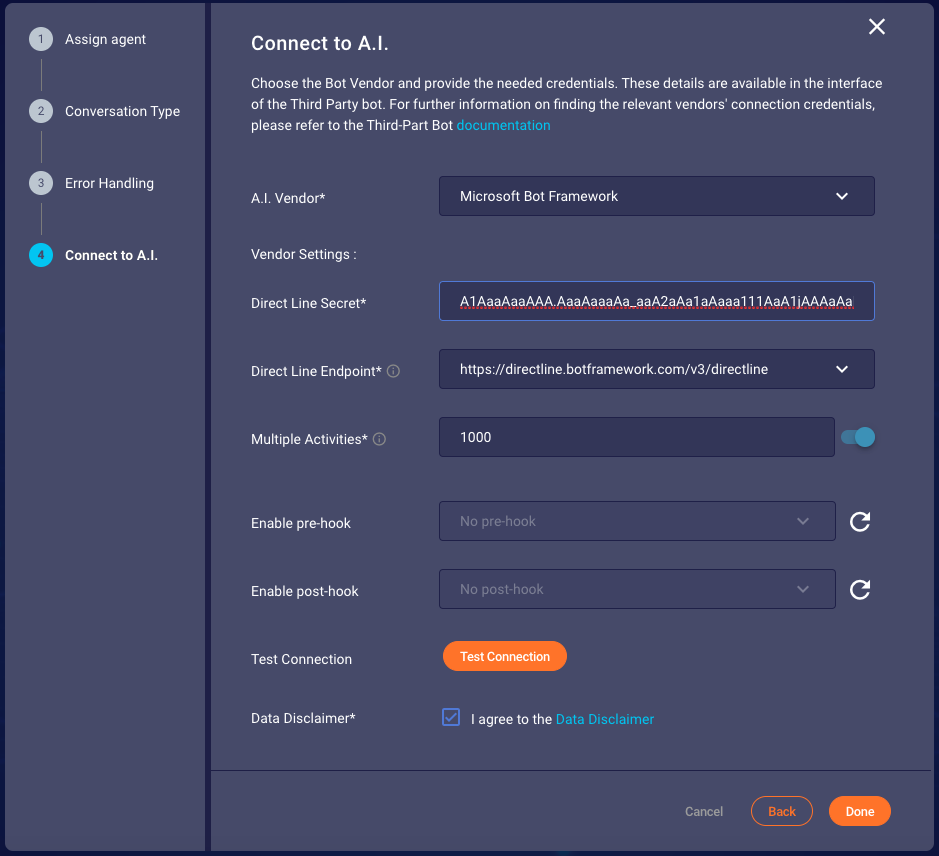
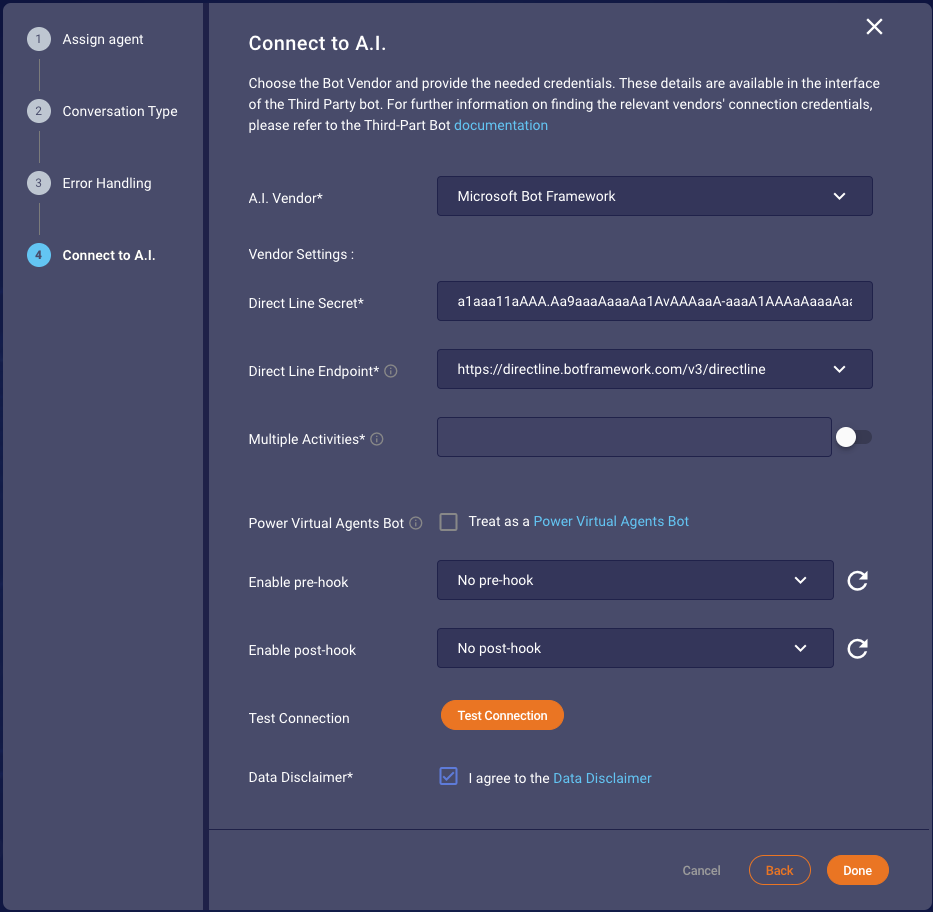
:memo: Update image and descriptions

diff --git a/pages/Documents/ConversationalAI/Third-PartyBots/MicrosoftDirectLine/advanced-features.md b/pages/Documents/ConversationalAI/Third-PartyBots/MicrosoftDirectLine/advanced-features.md
@@ -26,8 +26,9 @@ This delay will be added before a message or action provided in this activity wi
   }
 }
 ```
-
-Figure 1.1 Activity resulting in a delay with typing indicator
+Figure 3.1 Activity resulting in a delay with typing indicator
+<br>
+<br>
 
 - `delay` This is the number of seconds the bot will wait. Only whole numbers can be provided.
 - `typing` This property controls if a typing indicator is shown during the delay. The property is optional and defaults to `true`.
@@ -60,8 +61,8 @@ body of the function.
 | --------------- | ------------------------------------- | ------------------------- |
 | text            | any string value                      | mandatory                 |
 | messageAudience | value should be `AGENTS_AND_MANAGERS` | case sensitive, mandatory |
-
-<br/>
+<br>
+<br>
 
 A single private text message with an action can be sent by adding `text` and `messageAudience` properties with 
 relevant action (e.g. [Transfer](third-party-bots-microsoft-direct-line-basic-content.html#transfer)) 
@@ -85,17 +86,18 @@ properties. An example of such case is below:
   }
 }
 ```
-
-Figure 2.1 Transfer activity with a private message visible to agents and managers
+Figure 3.2 Transfer activity with a private message visible to agents and managers
+<br>
+<br>
 
 ### Engagement attributes as context
 
 Third-Party bots allows the collection of engagement attributes (more information can be found 
 [here](engagement-attributes-types-of-engagement-attributes.html)) if the `Engagement Attributes` option is checked in 
-the `Conversation Type` step as shown in Figure 3.1.
+the `Conversation Type` step as shown in Figure 3.3.
 
 <img class="fancyimage" style="width:750px" src="img/engagement_attr_select.png">
-Figure 3.1 Conversation Type step in creation/modification of bot configuration.
+Figure 3.3 Conversation Type step in creation/modification of bot configuration.
 
 These attributes are **only** collected at the start of a conversation. Third-Party bots leverage the LivePerson 
 Visit Information API to collect the engagement attributes. Further information on the Visit Information API 
@@ -120,8 +122,9 @@ property (further information about `channelData` can be found
   }
 }
 ```
-
-Figure 3.1 Customer activity excerpt on a new chat
+Figure 3.4 Customer activity excerpt on a new chat
+<br>
+<br>
 
 ### Sending Multiple Responses
 
@@ -169,8 +172,9 @@ The array in the multiMessage property can contain the objects identified by the
   }
 }
 ```
-
-Figure 4.1 Activity with a multiMessage array containing messages of different types
+Figure 3.5 Activity with a multiMessage array containing messages of different types
+<br>
+<br>
 
 ### Sending Encoded Metadata
 
@@ -207,8 +211,9 @@ that `encodedMetadata` is written in camel case. An example of the simple text m
   }
 }
 ```
-
-Figure 5.1 Activity containing encodedMetadata for plain text
+Figure 3.6 Activity containing encodedMetadata for plain text
+<br>
+<br>
 
 #### Sending Rich Content (structured content) with Encoded Metadata
 
@@ -247,8 +252,9 @@ For sending [structured content](getting-started-with-rich-messaging-introductio
   }
 }
 ```
-
-Figure 5.2 Activity containing encodedMetadata for Rich Content
+Figure 3.7 Activity containing encodedMetadata for Rich Content
+<br>
+<br>
 
 #### Sending Multiple Responses with Encoded Metadata
 
@@ -284,8 +290,9 @@ For sending Encoded Metadata with multiple responses one must provide an additio
   }
 }
 ```
-
-Figure 5.3 MultiMessage Activity containing encodedMetadata
+Figure 3.8 MultiMessage Activity containing encodedMetadata
+<br>
+<br>
 
 ### Invoke LivePerson Function Activity
 
@@ -313,7 +320,7 @@ An example of an invocation can be seen below:
       "type": "client",
       "parameters": {
         "lambdaUuid": "4ec49ffc-080b-4e59-b302-18d6b826191b",
-        "payload": "{ "some": "stuff"}",
+        "payload": { "some": "stuff"},
         "failOnError": true
       },
       "result_variable": "none"
@@ -321,5 +328,4 @@ An example of an invocation can be seen below:
   }
 }
 ```
-
-Figure 6.1 LivePerson Function Invocation with payload
+Figure 3.9 LivePerson Function Invocation with payload

diff --git a/pages/Documents/ConversationalAI/Third-PartyBots/MicrosoftDirectLine/pva.md b/pages/Documents/ConversationalAI/Third-PartyBots/MicrosoftDirectLine/pva.md
@@ -22,6 +22,9 @@ Throughout this document the platform will be refered to as `PVA`.
 The Direct Line secret necessary to add the bot on Third-Party Bots can be found in the `Manage` Section of the PVA bot.
 
 <img class="fancyimage" alt="PVA-secret" src="img/ThirdPartyBots/microsoft-secret-pva.png">
+Figure 4.1 Direct Line Secret in PVA
+<br>
+<br>
 
 Adding this bot to Third-Party Bots will already enable you to leverage most of the bot functionality.
 For certain features of the PVA platform, however, you should also mark the bot as a PVA bot in the 
@@ -30,49 +33,56 @@ For certain features of the PVA platform, however, you should also mark the bot 
 ### Limitations
 
 {: .important}
-`End of Conversation`: This PVA node type found under `End the conversation`=>`End with survey` will send a native `endOfConversation` activity.
+`End of Conversation`: This PVA node type found under `End the conversation`=>`End with survey` will send a native 
+`endOfConversation` activity.
 As this is [not supported by the Direct Line Channel](https://docs.microsoft.com/en-us/azure/bot-service/rest-api/bot-framework-rest-direct-line-3-0-end-conversation?view=azure-bot-service-4.0)
-this connector is also not capable of supporting this node
+this connector is also not capable of supporting this node. To close a conversation send custom Channel Data as seen 
+in Figure 4.4.
 
 {: .important}
 The connector will send any Markdown as provided and not process the text further. 
 
 
-### Support
+### Features
 
-Currently Third-Party Bots supports the following PVA features:
+Currently Third-Party Bots supports the following features specific to PVA:
 
-### Greeting Topic
-By enabling the PVA setting the connector will  generate a native welcome event on a new conversation instead of the custom one described under 
-`Basic Content`.
-On the PVA platform this will trigger the System Topic `Greeting`.
-TODO: Basic Content Link
+#### Greeting Topic
+By enabling the PVA setting the connector will generate a native welcome event on a new or transfered conversation 
+instead of the custom one described under [Basic Content](third-party-bots-microsoft-direct-line-basic-content.html).
+This will trigger the System Topic `Greeting` configured on the PVA Platform.
 
-### Multiple Choice options
+#### Multiple Choice options
 A question node in PVA can be defined to provide predefined options for users.
 Third-Party Bots will automatically translate these options to quick replies.
 
 <img class="fancyimage" alt="Multiple Choice Example" src="img/ThirdPartyBots/microsoft-example-pva-multiple-choice.png">
+Figure 4.2 Question node in PVA
+<br>
+<br>
 
-### Transfer to Agent
+#### Transfer to Agent
 This PVA node can be selected under `End the conversation`=>`Transfer to agent` and will create a native event activity
 with the name `handoff.initiate`. 3rd-Party Bots supports this event. It is however crutial to take an additional step
 for it to work as a Conversational Cloud transfer request. A variable named `skill` needs to be set before the transfer 
 node is executed. This can e.g. be achieved by calling a Power Automation Action that returns such a value.
 
 <img class="fancyimage" alt="Transfer example" src="img/ThirdPartyBots/microsoft-example-pva-transfer.png">
+Figure 4.3 Transfer to agent
+<br>
+<br>
 
 The node allows to define a `Private Message to agent`.
 This message will be sent before the transfer and is not visible to the customer.
 
-### Channel Data support
+#### Channel Data support
 The PVA platform does not have a native option to send channel data information.
 However, the connector will assume any valid JSON content sent in the message field to be channelData content.
 This means all channelData objects documented for this connector can also be sent as a JSON string in the `Message` node.
 In the following example this is used to send a Close Conversation action.
 
 <img class="fancyimage" alt="Channel Data example" src="img/ThirdPartyBots/microsoft-example-pva-structured-content.png">
-
+Figure 4.4 Close Conversation as Channel Data in PVA
 
 
 

diff --git a/pages/Documents/ConversationalAI/Third-PartyBots/MicrosoftDirectLine/introduction.md b/pages/Documents/ConversationalAI/Third-PartyBots/MicrosoftDirectLine/introduction.md
@@ -46,8 +46,9 @@ For details how a bot can acknowledge the request within 15 seconds, see Microso
 ### Configuration
 
 <img class="fancyimage" style="width:600px" src="img/ThirdPartyBots/microsoft-configuration-step.png">
-
-Figure 3.1 The vendor configuration step for Microsoft Direct Line bots
+Figure 1.1 The vendor configuration step for Microsoft Direct Line bots
+<br>
+<br>
 
 {: .important}
 **Test Connection** requires the bot to acknowledge the test message that will be sent.
@@ -79,25 +80,36 @@ The bot does not necessarily need to send any response activities for this messa
     <td>Multiple Activities (Optional)</td>
     <td>
         The connector by default only polls for activities until he finds some on the channel. 
-        If you intent to send multiple activities especially after the bot has acknowledged the request you should 
+        If you intent to send multiple activities independently from each other especially after the bot has acknowledged the request you should 
         activate this feature.
         The value describes the time the connector will wait [in milliseconds] and then check again for further 
         responses. The connector will continue checking in this interval as long as he finds more responses. 
-        If no additional responses can be found after this interval all responses until this point will be returned.
+        If no additional responses can be found after this interval all responses found until this point will be returned.
     </td>
     <td>1000</td>
+  </tr>
+  <tr>
+    <td>Power Virtual Agents Bot</td>
+    <td>
+        This enables certain features for best compatibility with Power Virtual Agents. Enabled this if your bot was created on that platform.
+        See the PVA subsection for more details.
+    </td>
+    <td></td>
   </tr>
   </tbody>
 </table>
 
-Figure 3.2 Detailed parameter description
+Figure 1.2 Detailed parameter description
+<br>
+<br>
 
 The Direct Line Secret can be found in the Azure Portal if you select the corresponding Web App Bot and edit the 
 Configuration of the Direct Line Channel.
 
 <img class="fancyimage" style="width:750px" src="img/ThirdPartyBots/microsoft-secret-azure.png">
-Figure 3.3 Location of the Direct Line secret in Azure
-
+Figure 1.3 Location of the Direct Line secret in Azure
+<br>
+<br>
 
 ### Implementation Details
 
@@ -107,10 +119,14 @@ Direct Line API:
 * In case of a new conversation, a request to start a new conversation is also send to the Direct Line API.
 
 <img class="fancyimage" src="img/ThirdPartyBots/microsoft-flow-init-conversation.png">
+Figure 1.4 Flow for starting/resuming a conversation
+<br>
+<br>
 
 After a conversation client has been retrieved in this way, the customer message is send to the Direct Line API.
 The connector does retries on error responses and will poll for the responses after the message has been successfully 
 send. 
 
 <img class="fancyimage" src="img/ThirdPartyBots/microsoft-flow-send-activity.png">
+Figure 1.5 Flow for getting bot responses to a customer message
 
